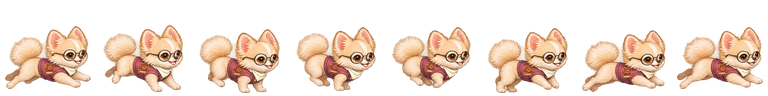
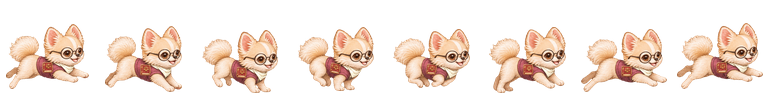
8コマをCSSで再生し透過の輪郭を仕上げる

Changed region(s): [[0.0, 0.25, 1.0, 0.9688]]

diff --git a/components/home/pace/PaceTrack.tsx b/components/home/pace/PaceTrack.tsx
@@ -40,6 +40,7 @@ function RunningChihuahua({ src, frames, percent, lineY, fillRef, stopped }: {
     const sprite = strip.current;
     const fill = fillRef.current;
     if (!dog || !viewport || !sprite || !fill) return;
+    const usesCssAnimation = frames > 4;
     const motion = window.matchMedia("(prefers-reduced-motion: reduce)");
     const from = progress.current;
     const distance = trackX(percent) - trackX(from);
@@ -51,11 +52,12 @@ function RunningChihuahua({ src, frames, percent, lineY, fillRef, stopped }: {
       fill.setAttribute("x2", String(x));
       dog.setAttribute("transform", `translate(${x} ${-lift})`);
       viewport.setAttribute("x", String(runnerFrameX(x)));
-      sprite.setAttribute("x", String(-frameIndex * FRAME_SIZE));
+      if (!usesCssAnimation) sprite.setAttribute("x", String(-frameIndex * FRAME_SIZE));
     };
     function finish() {
       cancelAnimationFrame(request);
       request = 0;
+      dog?.removeAttribute("data-pace-running");
       draw(percent, 0, 0);
     }
     if (stopped || motion.matches || document.hidden || distance === 0) {
@@ -71,15 +73,20 @@ function RunningChihuahua({ src, frames, percent, lineY, fillRef, stopped }: {
       if (document.hidden || motion.matches) return finish();
       const elapsed = Math.max(0, now - start);
       if (elapsed >= duration) return finish();
-      const stride = (elapsed % STRIDE_MS) / STRIDE_MS;
-      draw(from + (percent - from) * elapsed / duration,
-        frames === 4 ? BOUNCE_HEIGHT * Math.sin(Math.PI * stride) : 0, Math.floor(stride * frames));
+      const value = from + (percent - from) * elapsed / duration;
+      if (usesCssAnimation) {
+        draw(value, 0, 0);
+      } else {
+        const stride = (elapsed % STRIDE_MS) / STRIDE_MS;
+        draw(value, BOUNCE_HEIGHT * Math.sin(Math.PI * stride), Math.floor(stride * frames));
+      }
       request = requestAnimationFrame(advance);
     }
     function updateVisibility(inView: boolean) {
       if (!inView || document.hidden || motion.matches) return finish();
       if (request || progress.current === percent) return;
       start = performance.now();
+      if (usesCssAnimation) dog?.setAttribute("data-pace-running", "");
       request = requestAnimationFrame(advance);
     }
     const suspend = () => { if (document.hidden || motion.matches) finish(); };
@@ -92,6 +99,7 @@ function RunningChihuahua({ src, frames, percent, lineY, fillRef, stopped }: {
     motion.addEventListener("change", suspend);
     return () => {
       cancelAnimationFrame(request);
+      dog.removeAttribute("data-pace-running");
       observer?.disconnect();
       document.removeEventListener("visibilitychange", suspend);
       motion.removeEventListener("change", suspend);

diff --git a/tests/e2e/study-plan-edge-cases.spec.ts b/tests/e2e/study-plan-edge-cases.spec.ts
@@ -95,31 +95,37 @@ for (const suspension of ["hidden", "offscreen"] as const) {
     await setup(page, makePlan(), 100);
     await page.emulateMedia({ reducedMotion: "no-preference" });
     await page.addInitScript(mode => {
-      const poses = new Set<string>();
-      new MutationObserver(records => {
-        for (const { target } of records) {
-          if (!(target instanceof SVGImageElement) || !target.closest('[data-pace-sprite="v2"]')) continue;
-          const offset = target.getAttribute("x");
-          if (!offset || offset === "0") continue;
-          poses.add(offset);
-          if (poses.size < 3) continue;
-          document.documentElement.dataset.runnerAnimated = "true";
+      const poses = new Set<number>();
+      const observer = new MutationObserver(() => {
+        const image = document.querySelector('[data-pace-sprite="v2"][data-pace-running] image');
+        if (!image) return;
+        observer.disconnect();
+        function observePose() {
+          if (!image?.closest("[data-pace-running]")) return;
+          const transform = getComputedStyle(image).transform;
+          if (transform !== "none") poses.add(new DOMMatrixReadOnly(transform).m41);
+          if (poses.size < 3) {
+            requestAnimationFrame(observePose);
+            return;
+          }
+          document.documentElement.dataset.runnerAnimated = String([...poses].every(x => x % 72 === 0));
           if (mode === "hidden") {
             Object.defineProperty(document, "hidden", { value: true, configurable: true });
             document.dispatchEvent(new Event("visibilitychange"));
           } else {
             window.scrollTo({ top: document.documentElement.scrollHeight, behavior: "instant" });
           }
-          break;
         }
-      }).observe(document, { attributes: true, subtree: true, attributeFilter: ["x"] });
+        requestAnimationFrame(observePose);
+      });
+      observer.observe(document, { attributes: true, subtree: true, attributeFilter: ["data-pace-running"] });
     }, suspension);
     await page.goto("/");
     const track = page.getByRole("img", { name: "正解済み 100 / 200問" });
     await expect(track.locator("image")).toHaveAttribute("href", "/images/home/pace-run/v2/ip.webp");
     await expect(page.locator("html")).toHaveAttribute("data-runner-animated", "true");
     if (suspension === "offscreen") await expect(track).not.toBeInViewport();
-    await expect(track.locator("image")).toHaveAttribute("x", "0");
+    await expect(track.locator("image")).toHaveCSS("transform", "none");
     await expect(track.locator("line.p3-trail-progress")).toHaveAttribute("x2", "161");
   });
 }

diff --git a/components/home/pace/HomePace.module.css b/components/home/pace/HomePace.module.css
@@ -56,6 +56,15 @@
 .hero > [data-pace-track="progress"] { min-block-size: calc(var(--track-space) + var(--progress-track)); }
 .hero :global(.p3-pace-track) { height: auto; max-block-size: 9.5rem; }
 .hero[data-pace-view="new"] :global(.p3-pace-track) { max-block-size: 8rem; }
+@media (prefers-reduced-motion: no-preference) {
+  .hero :global(.p3-track-runner[data-pace-running] image) {
+    transform-box: fill-box;
+    animation: runnerStride 320ms steps(8) infinite;
+  }
+}
+@keyframes runnerStride {
+  to { transform: translateX(-100%); }
+}
 .planCount { min-block-size: 4rem; margin-block-start: .375rem; }
 .planActions { display: flex; flex-wrap: wrap; column-gap: .75rem; }
 .planDetails {
